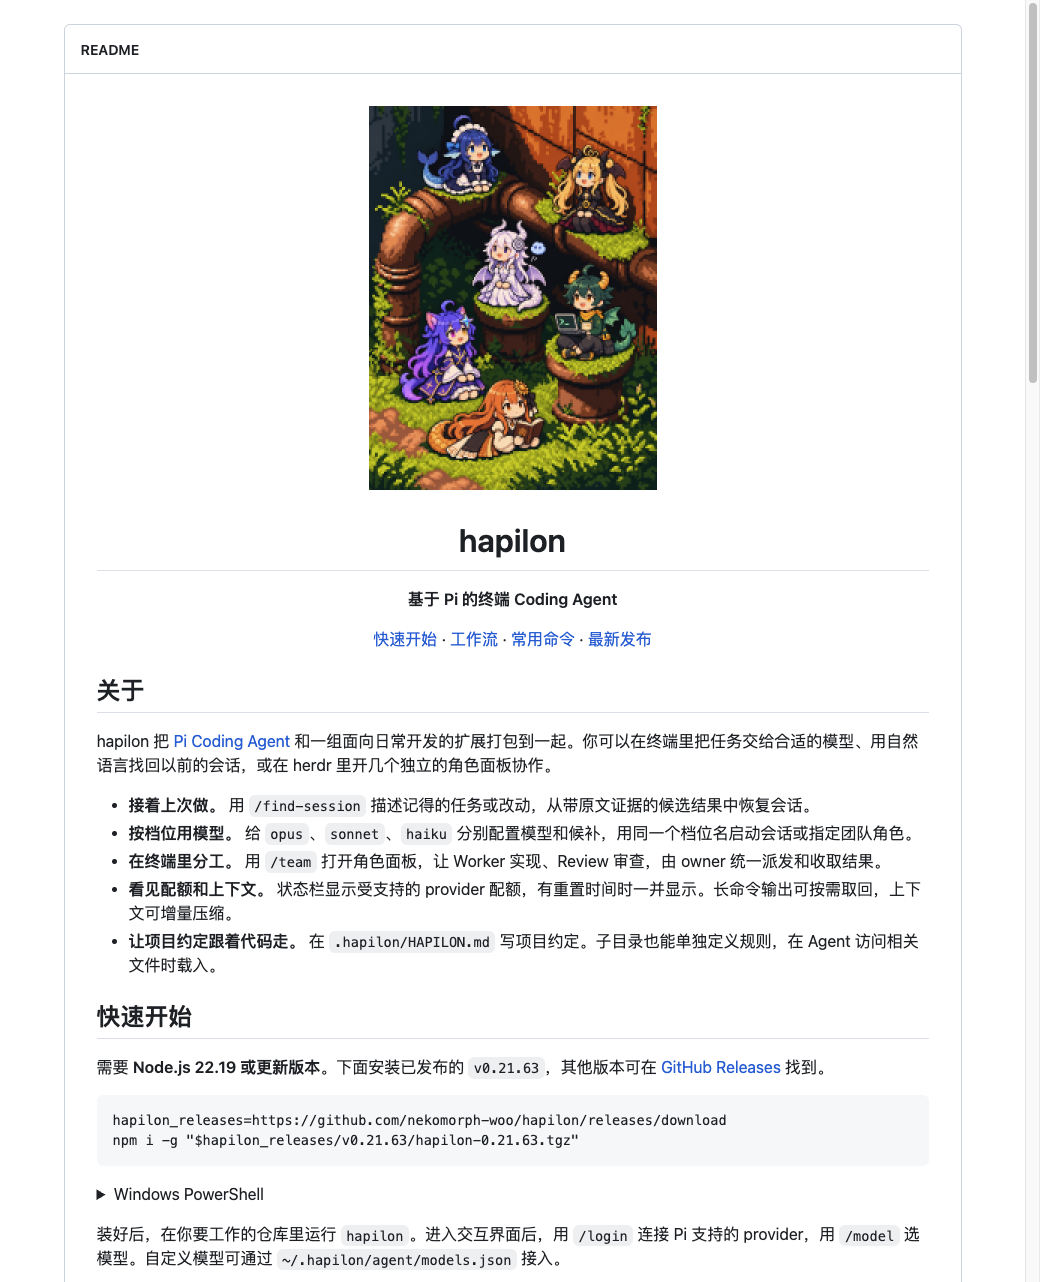
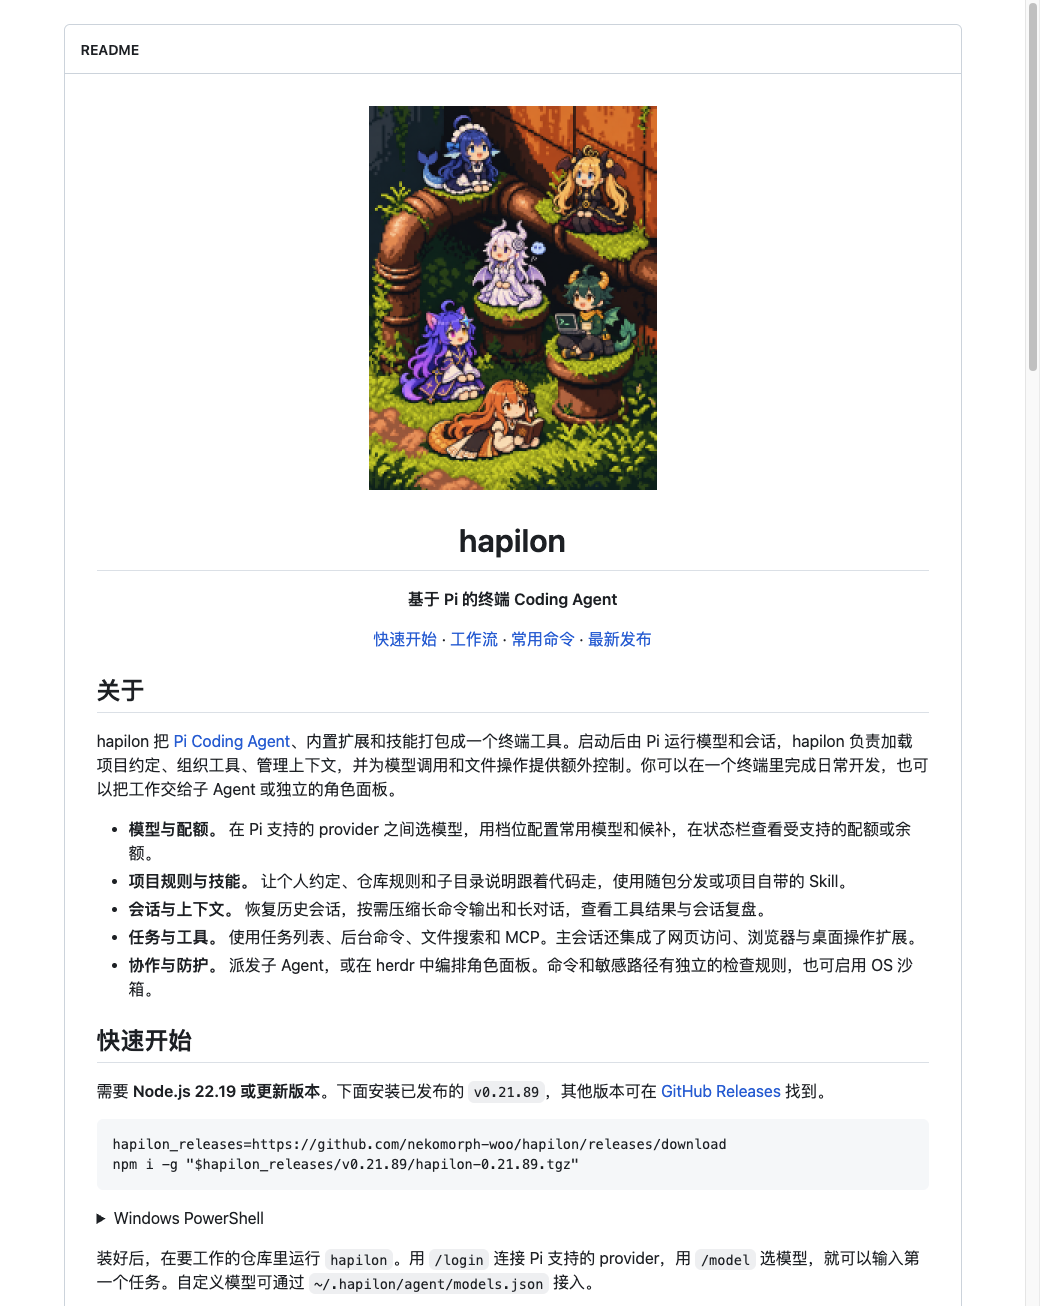
docs(readme): 说明 hapilon 的完整终端工作流
让读者看懂 Pi 内核、项目约定、工具和协作能力如何配合。

diff --git a/README.md b/README.md
@@ -17,21 +17,21 @@
 
 ## 关于
 
-hapilon 把 [Pi Coding Agent](https://github.com/earendil-works/pi/tree/main/packages/coding-agent) 和一组面向日常开发的扩展打包到一起。你可以在终端里把任务交给合适的模型、用自然语言找回以前的会话，或在 herdr 里开几个独立的角色面板协作。
+hapilon 把 [Pi Coding Agent](https://github.com/earendil-works/pi/tree/main/packages/coding-agent)、内置扩展和技能打包成一个终端工具。启动后由 Pi 运行模型和会话，hapilon 负责加载项目约定、组织工具、管理上下文，并为模型调用和文件操作提供额外控制。你可以在一个终端里完成日常开发，也可以把工作交给子 Agent 或独立的角色面板。
 
-- **接着上次做。** 用 `/find-session` 描述记得的任务或改动，从带原文证据的候选结果中恢复会话。
-- **按档位用模型。** 给 `opus`、`sonnet`、`haiku` 分别配置模型和候补，用同一个档位名启动会话或指定团队角色。
-- **在终端里分工。** 用 `/team` 打开角色面板，让 Worker 实现、Review 审查，由 owner 统一派发和收取结果。
-- **看见配额和上下文。** 状态栏显示受支持的 provider 配额，有重置时间时一并显示。长命令输出可按需取回，上下文可增量压缩。
-- **让项目约定跟着代码走。** 在 `.hapilon/HAPILON.md` 写项目约定。子目录也能单独定义规则，在 Agent 访问相关文件时载入。
+- **模型与配额。** 在 Pi 支持的 provider 之间选模型，用档位配置常用模型和候补，在状态栏查看受支持的配额或余额。
+- **项目规则与技能。** 让个人约定、仓库规则和子目录说明跟着代码走，使用随包分发或项目自带的 Skill。
+- **会话与上下文。** 恢复历史会话，按需压缩长命令输出和长对话，查看工具结果与会话复盘。
+- **任务与工具。** 使用任务列表、后台命令、文件搜索和 MCP。主会话还集成了网页访问、浏览器与桌面操作扩展。
+- **协作与防护。** 派发子 Agent，或在 herdr 中编排角色面板。命令和敏感路径有独立的检查规则，也可启用 OS 沙箱。
 
 ## 快速开始
 
-需要 **Node.js 22.19 或更新版本**。下面安装已发布的 `v0.21.63`，其他版本可在 [GitHub Releases](https://github.com/nekomorph-woo/hapilon/releases/latest) 找到。
+需要 **Node.js 22.19 或更新版本**。下面安装已发布的 `v0.21.89`，其他版本可在 [GitHub Releases](https://github.com/nekomorph-woo/hapilon/releases/latest) 找到。
 
 ```sh
 hapilon_releases=https://github.com/nekomorph-woo/hapilon/releases/download
-npm i -g "$hapilon_releases/v0.21.63/hapilon-0.21.63.tgz"
+npm i -g "$hapilon_releases/v0.21.89/hapilon-0.21.89.tgz"
 ```
 
 <details>
@@ -39,46 +39,42 @@ npm i -g "$hapilon_releases/v0.21.63/hapilon-0.21.63.tgz"
 
 ```powershell
 $hapilonReleases = 'https://github.com/nekomorph-woo/hapilon/releases/download'
-npm.cmd i -g "$hapilonReleases/v0.21.63/hapilon-0.21.63.tgz"
+npm.cmd i -g "$hapilonReleases/v0.21.89/hapilon-0.21.89.tgz"
 ```
 
 </details>
 
-装好后，在你要工作的仓库里运行 `hapilon`。进入交互界面后，用 `/login` 连接 Pi 支持的 provider，用 `/model` 选模型。自定义模型可通过 `~/.hapilon/agent/models.json` 接入。
+装好后，在要工作的仓库里运行 `hapilon`。用 `/login` 连接 Pi 支持的 provider，用 `/model` 选模型，就可以输入第一个任务。自定义模型可通过 `~/.hapilon/agent/models.json` 接入。
 
-第一次可以先让 Agent 读一遍项目，再决定改什么。
+> 看一下这个仓库的核心模块和测试入口，告诉我验证一次改动需要跑哪些命令。先不要修改文件。
 
-> 看一下这个仓库的测试入口和核心模块，告诉我验证一次改动需要跑哪些命令。先不要修改文件。
-
-已经配置好模型后，也可以从 shell 发起一次性请求。下面的例子把答复打印到终端，这次对话不保存为会话。
+`hapi` 是同一入口的短别名。已经配置好模型时，也可以从 shell 发起一次性请求，将回复输出到终端。下面这次请求不保存会话。
 
 ```sh
 hapilon -p --no-session "概括当前仓库的测试入口，不要修改文件"
 ```
 
-`hapi` 和 `hapilon` 是同一个 CLI 的两个入口。遇到配置问题，运行 `hapilon doctor` 检查 Node、Pi 启动入口和认证状态。升级时安装目标 Release 的 tarball，再重新启动 hapilon。下文功能对应仓库当前代码，已发布版本的差异见各版 Release 说明。
+遇到安装或认证问题时，运行 `hapilon doctor`。升级时安装目标 Release 的 tarball，再重启 hapilon。本文介绍仓库当前代码，具体版本的功能以各版发布说明为准。
 
 ## 工作流
 
-### 找回上次的工作
+### 让 Agent 遵守项目约定
 
-打开 `/find-session`，像向同事描述任务一样描述你要找的会话。
+把团队通用的构建命令、验证要求和代码约定放进项目的 `.hapilon/HAPILON.md`。hapilon 会加载用户级和当前目录向上的约定。在 monorepo 里，可把 API 包专用的命令放进 `packages/api/.hapilon/HAPILON.md`，Agent 首次通过文件工具访问该子树后才载入。
 
-> 上次排查 Windows Terminal 换行问题的是哪个会话？我想接着验证那次改动。
+`.hapilon/agents/rules/` 用于附加规则，`.hapilon/agents/skills/` 里的 `SKILL.md` 用于可复用的工作流程。可以用 `/skill:<名称>` 调用 Skill。包内提供了调研、交接、设计和提交快照等 [Skill](resources/skills/)。
 
-检索使用 `haiku` 档的首选模型。浮层里的检索子进程只能读取会话记录，候选结果里的原文证据会与记录核对。确认候选后，当前终端会切换到对应会话。只想继续当前目录最近的会话，用 `hapilon -c`。想从历史列表手动挑选，用 `hapilon -r`。
+hapilon 默认使用 `HAPILON.md` 作为项目约定入口，并拦截读取 `AGENTS.md` 和 `CLAUDE.md`。从其他工具迁移时，把要保留的约定写进 `.hapilon/HAPILON.md`。
 
-### 给任务选一个模型档位
+### 配置模型与候补
 
-在 `/tiers` 里为三档选模型、调整候补顺序，也可以设置启动时的默认模型。三档是 hapilon 的配置名，可以绑定任意已接入的 provider。当前仓库还提供 `/fast-hapilon-setup`，登录后可从可用模型生成一份推荐配置，再由你编辑和确认。
-
-设好档位后，可以在 shell 里按档启动。下面的 `[0]` 是从零开始的档内索引。
+用 `/tiers` 配置 `opus`、`sonnet` 和 `haiku`。这些名称是可配置的档位，可以绑定不同 provider 的模型。档内条目有顺序，`[0]` 选择第一项。登录后也可以用 `/fast-hapilon-setup` 生成一份档位建议，再确认保存。
 
 ```sh
 hapilon --model "tier:sonnet[0]"
 ```
 
-如果某个项目需要自己的候补顺序，可以在项目的 `.hapilon/model-tiers.json` 里只写要覆盖的档位。以下示例覆盖 `sonnet`，另外两档沿用全局设置。把示例条目换成自己在 `/model` 中可用的模型，可选的 `:high` 后缀指定思考强度。
+如果仓库需要自己的候补顺序，在 `.hapilon/model-tiers.json` 中写要覆盖的档位。以下示例只替换 `sonnet`，另外两档沿用全局设置。把条目换成 `/model` 中可用的模型即可。
 
 ```json
 {
@@ -89,59 +85,68 @@ hapilon --model "tier:sonnet[0]"
 }
 ```
 
-`/subagent-models` 和 `/vision-models` 管理的是派发列表。在适用的派发里，你明确点名的模型会优先使用。自动挑选时，如果已读取的配额快照显示某个 provider 的用量窗口达到 90%，会顺延到后面的候选。全部候选都紧张时，沿用父会话模型。
+`/subagent-models` 与 `/vision-models` 分别管理常规子 Agent 和图像子 Agent 的派发列表。适用的派发优先尊重显式点名；自动选择时，会根据已有配额快照跳过用量紧张的候选。可以用 `/quota-usage` 查看受支持的 provider 的配额或余额。
 
-### 开一组角色面板
+### 继续工作并整理上下文
 
-在 **herdr pane** 或 **herdr-core 终端**里启动 hapilon，输入 `/team`，选择「开始编排」。这个会话成为 owner，并准备一个 Worker 面板。需要单独审查时，打开 Review 面板。
+- 最近在这个目录工作过，可以用 `hapilon -c` 续接。想手动挑选历史会话，用 `hapilon -r`。
+- 只记得任务内容时，用 `/find-session` 描述你在找什么。配置好 `haiku` 档后，检索面板会列出带原文证据的候选，确认后切换会话。
+- 构建和全量测试输出太长时，用 `/econ` 调节压缩与首尾保留行数。Agent 可用 `ctx_more` 取回省略的片段。长对话的上下文压缩由 ACP 管理，可用 `/acp` 查看。
+- 跨仓库工作时，用 `/add-dir` 把外部目录加入当前会话的上下文，再用 `/dirs` 核对当前范围。
+
+### 管理任务与 Agent 协作
+
+在普通终端里可以用 `/tasks` 查看任务清单，通过 `/agents` 管理子 Agent。后台任务可以在命令结束时通知当前会话，适合等待构建、测试或依赖安装。
+
+需要可见的独立角色面板时，在 **herdr pane** 或 **herdr-core 终端**启动 hapilon。打开 `/team`，选择「开始编排」准备 Worker 面板，再按需打开审查角色。
 
 ```text
 /team:open reviewer
 ```
 
-以修复一项失败的测试为例。
+例如修一个失败的测试，owner 负责明确范围和验收命令，Worker 实现并回报验证结果，Review 只读检查改动。派发和回报可通过信箱排队，`hapilon team-status` 显示角色状态、任务进度和回执。团队也支持体验官、讨论成员和自定义角色。herdr-app 用户可运行 `hapilon setup-herdr` 添加启动入口。
 
-1. 把失败现象、允许修改的范围和验收命令交给 owner，由它派给 Worker。
-2. Worker 实现、自验，并把结果和验证情况回报给 owner。
-3. Review 只读检查改动及遗漏，owner 根据回执决定接收还是继续修改。
+## 工具与扩展
 
-派发和完工回报通过信箱投递，角色忙碌时消息可以排队。在团队终端运行 `hapilon team-status` 查看角色状态、任务进度和回执。也可以从 `/team` 加入体验官、讨论成员或自定义角色。herdr-app 用户可运行 `hapilon setup-herdr` 添加启动菜单入口。
+hapilon 随包加载 [内置扩展](src/extensions/) 和 [第三方扩展](src/extensions/npm-extensions.ts)。MCP 由 Pi 内核提供，可在 `~/.hapilon/agent/mcp.json` 配置服务，再用 `/mcp` 管理连接或登录。服务的配置格式见 [Pi MCP 文档](https://github.com/earendil-works/pi/blob/main/packages/coding-agent/docs/mcp.md)。
 
-### 从长输出里找回细节
-
-运行全量测试或构建时，`/econ` 可以调节 `bash` 输出的压缩阈值和保留的首尾行数。Agent 需要核对某一段省略输出时，可以用 `ctx_more` 按行取回。对于随着对话变长积累的上下文，可以用 `/acp` 查看压缩状态。
+| 用途 | 随包集成 |
+| --- | --- |
+| 查找代码和资料 | 本地文件与代码搜索、网页搜索与读取 |
+| 检查界面 | 主会话中的浏览器与桌面操作工具，依赖对应的运行环境和权限 |
+| 管理长任务 | 持久化任务列表、目标推进、后台任务与监控 |
+| 交互与观察 | 结构化提问、工具输出浮层、思考计时、配额与上下文状态栏 |
+| 回顾工作 | 会话进度摘要、Skill 使用统计与本地报告 |
 
 ## 常用命令
 
-带 `/` 的命令在 hapilon 的交互界面输入。
+带 `/` 的命令在交互界面输入。
 
-| 你想做什么 | 命令 |
+| 场景 | 命令 |
 | --- | --- |
-| 续接、选模和编排 | `/find-session` · `/tiers` · `/team` |
-| 把外部目录加入当前会话 | `/add-dir` · `/dirs` · `/remove-dir` |
-| 查看 provider 配额或余额 | `/quota-usage` |
-| 查看或调节上下文与命令输出 | `/acp` · `/econ` |
-| 在浮层查看折叠的工具面板 | `/pop` |
-| 管理 MCP 连接 | `/mcp` |
-| 配置受支持模型的 OpenAI Fast 模式 | `/fast` |
-| 查看本地会话或技能使用统计 | `/hapi-metrics` |
-| 在 shell 中查帮助、版本、配置状态 | `hapilon --help` · `hapilon --version` · `hapilon doctor` |
+| 连接 provider、选模型 | `/login` · `/model` · `/tiers` |
+| 恢复会话、查看上下文 | `/find-session` · `/acp` · `/econ` |
+| 查看任务、子 Agent 和团队 | `/tasks` · `/agents` · `/team` |
+| 加入或移除外部目录 | `/add-dir` · `/dirs` · `/remove-dir` |
+| 管理 MCP、查看工具面板 | `/mcp` · `/pop` |
+| 查看配额或设置 OpenAI Fast 模式 | `/quota-usage` · `/fast` |
+| 查看 Skill 使用情况 | `/hapi-metrics skills` |
+| 在 shell 查看帮助和诊断 | `hapilon --help` · `hapilon --version` · `hapilon doctor` |
 
 ## 配置和安全
 
-用户数据默认在 `~/.hapilon/`。可以用绝对路径设置 `HAPILON_HOME`，为另一套环境单独保存设置和会话。
+用户数据默认在 `~/.hapilon/`。用绝对路径设置 `HAPILON_HOME`，可以给另一套环境单独保存设置和会话。
 
-| 放在哪里 | 放什么 |
+| 位置 | 用途 |
 | --- | --- |
-| `~/.hapilon/agent/` | Pi 的认证、模型、设置、MCP 和会话记录 |
+| `~/.hapilon/agent/` | Pi 的认证、模型设置、MCP 和会话记录 |
 | `~/.hapilon/model-tiers.json` | 全局模型档位 |
+| `~/.hapilon/subagent-models.json` · `vision-models.json` | 全局子 Agent 与图像模型列表 |
+| `~/.hapilon/HAPILON.md` · `agents/rules/` · `agents/skills/` | 个人约定、规则和 Skill |
 | `~/.hapilon/teams/roles/` | 团队自定义角色 |
-| `~/.hapilon/HAPILON.md` 与项目的 `.hapilon/HAPILON.md` | 全局与项目约定 |
-| `<子目录>/.hapilon/HAPILON.md` | Agent 通过文件工具访问对应目录时载入的约定 |
+| 项目内的 `.hapilon/` | 仓库约定、项目级模型配置、规则和 Skill |
 
-在 monorepo 中，可以在根目录的 `.hapilon/HAPILON.md` 写通用约定，再在 `packages/api/.hapilon/HAPILON.md` 写 API 包专用的测试命令。后者会在 Agent 首次用 `read`、`edit` 或 `write` 访问对应目录里的文件后载入。
-
-hapilon 会对 Agent 通过 `bash` 工具发出的命令做分级处理，并对受保护的文件路径做单独检查。需要操作系统级隔离时，可使用 `hapilon --sandbox`。实现与平台准备条件见 [启动入口](src/cli/main.ts) 和 [安全模块](src/safety/)。
+默认的 [命令检查](src/extensions/hpl-safety-gate/)会为 Agent 的 `bash` 工具调用分级，对高风险操作进行拦截或确认。[文件路径保护](src/extensions/hpl-protected-paths/)单独检查文件工具对敏感路径的操作。后台任务使用独立执行通道。需要 OS 级限制时可以启用 `hapilon --sandbox`，各平台的准备条件见 [启动入口](src/cli/main.ts)。
 
 ## 从源码运行
 
@@ -152,15 +157,15 @@ node dist/cli.js --help
 npm test
 ```
 
-在当前仓库启动开发版可以用 `npm run dev`。提交 TypeScript 改动时同步构建结果 `dist/`。只检查类型可用 `npm run typecheck`，也可以用 `npm run test:unit` 或 `npm run test:integration` 分别执行两类测试。
+在当前仓库启动开发版可以运行 `npm run dev`。提交 TypeScript 改动时同步构建结果 `dist/`。也可以用 `npm run typecheck` 只检查类型，或分别执行 `npm run test:unit` 和 `npm run test:integration`。
 
 <details>
 <summary>源码和维护入口</summary>
 
 | 位置 | 负责什么 |
 | --- | --- |
-| [`src/cli/`](src/cli/) · [`src/providers/`](src/providers/) | 命令路由、启动 Pi、加载配置 |
-| [`src/extensions/`](src/extensions/) · [第三方扩展接线](src/extensions/npm-extensions.ts) | 模型、会话、团队、上下文、检索、任务与终端工具 |
+| [`src/cli/`](src/cli/) · [`src/providers/`](src/providers/) | CLI 路由、启动 Pi 与 provider 相关设置 |
+| [`src/extensions/`](src/extensions/) · [第三方扩展接线](src/extensions/npm-extensions.ts) | 模型、会话、项目上下文、工具、任务和团队 |
 | [`src/config/`](src/config/) · [`src/safety/`](src/safety/) | 用户与项目配置、信任记录和沙箱 |
 | [`resources/skills/`](resources/skills/) | 随包分发的技能 |
 | [`src/patch/`](src/patch/) · [`src/test/`](src/test/) | Pi 兼容补丁、单元与集成测试 |
